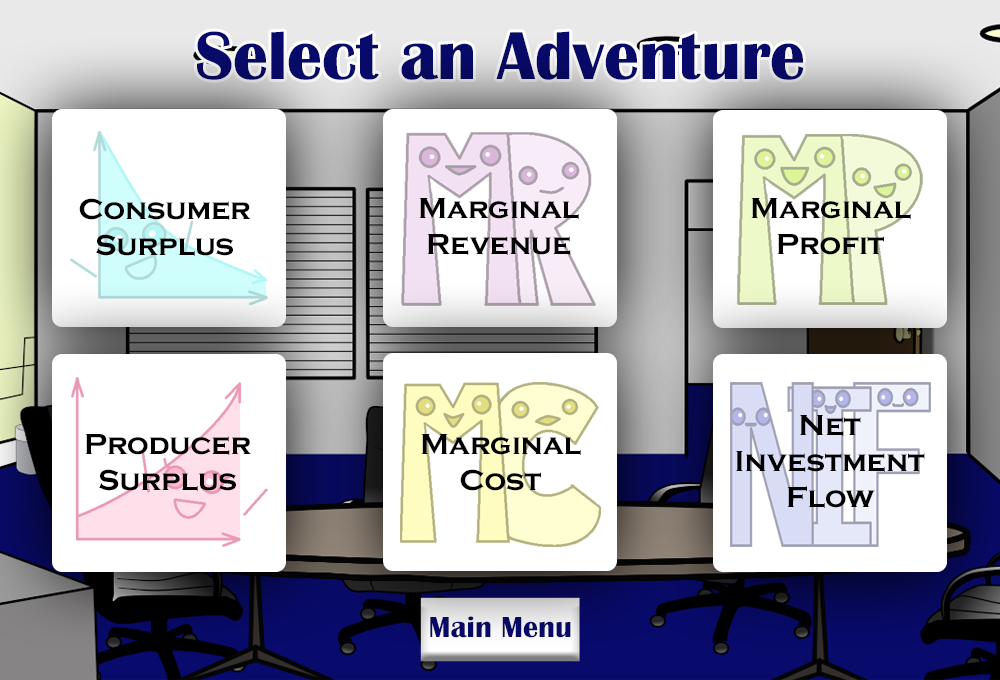
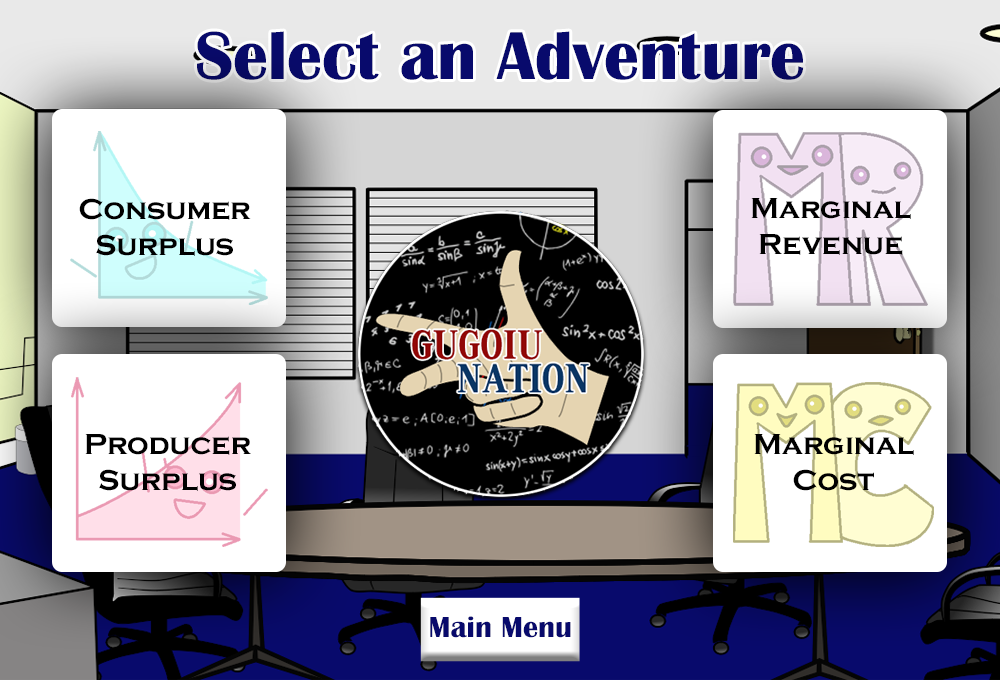
Fixed adventure select screen

Changed region(s): [[0.341, 0.0926, 0.682, 0.9265], [0.713, 0.5559, 0.961, 0.8029], [0.713, 0.1853, 0.93, 0.4632]]

diff --git a/AdventureSelect.java b/AdventureSelect.java
@@ -12,6 +12,7 @@ public class AdventureSelect extends JPanel
     
     public AdventureSelect ()
     {         
+            System.out.println(adventure);
         addMouseListener(new MouseAdapter() { 
             public void mousePressed(MouseEvent e) { 
                 int relativeX = e.getX();
@@ -27,24 +28,24 @@ public class AdventureSelect extends JPanel
                     adventure = "ProSurplus";
                     System.out.println (adventure);
                 }
-                else if (relativeX >= 383 && relativeX <= 617 && relativeY >= 109 && relativeY <= 327 && adventure.equals("")) 
+//                else if (relativeX >= 383 && relativeX <= 617 && relativeY >= 109 && relativeY <= 327 && adventure.equals("")) 
+//                {
+//                    adventure = "MargRevenue";
+//                    System.out.println (adventure);
+//                }
+//                else if (relativeX >= 383 && relativeX <= 617 && relativeY >= 353 && relativeY <= 572 && adventure.equals("")) 
+//                {
+//                    adventure = "MargCost";
+//                    System.out.println (adventure);
+//                }
+                else if (relativeX >= 713 && relativeX <= 974 && relativeY >= 109 && relativeY <= 327 && adventure.equals("")) //marg rev
                 {
-                    adventure = "MargRevenue";
+                    adventure = "MargRevenue";  
                     System.out.println (adventure);
                 }
-                else if (relativeX >= 383 && relativeX <= 617 && relativeY >= 353 && relativeY <= 572 && adventure.equals("")) 
+                else if (relativeX >= 713 && relativeX <= 974 && relativeY >= 353 && relativeY <= 572 && adventure.equals("")) //marg cost
                 {
-                    adventure = "MargCost";
-                    System.out.println (adventure);
-                }
-                else if (relativeX >= 713 && relativeX <= 974 && relativeY >= 109 && relativeY <= 327 && adventure.equals(""))
-                {
-                    adventure = "MargProfit";  
-                    System.out.println (adventure);
-                }
-                else if (relativeX >= 713 && relativeX <= 974 && relativeY >= 353 && relativeY <= 572 && adventure.equals(""))
-                {
-                    adventure = "NetInvestFlow";  
+                    adventure = "MargCost";  
                     System.out.println (adventure);
                 }
                 else if (relativeX >= 421 && relativeX <= 579 && relativeY >= 598 && relativeY <= 662 && adventure.equals("")) //Main menu
@@ -74,16 +75,12 @@ public class AdventureSelect extends JPanel
         Image b = Toolkit.getDefaultToolkit ().getImage ("Backgrounds/Adventure Select ProSurplus.png");
 //    Image c = Toolkit.getDefaultToolkit ().getImage ("Backgrounds/Adventure Select MargRevenue.png");
 //    Image d = Toolkit.getDefaultToolkit ().getImage ("Backgrounds/Adventure Select MargCost.png");
-//    Image e = Toolkit.getDefaultToolkit ().getImage ("Backgrounds/Adventure Select MargProfit.png");
-//    Image f = Toolkit.getDefaultToolkit ().getImage ("Backgrounds/Adventure Select NetInvestFlow.png");
         Image main = Toolkit.getDefaultToolkit ().getImage ("Backgrounds/Adventure Select.png");
         
         tracker.addImage (a, 0);        
       tracker.addImage (b, 1);      
 //    tracker.addImage (c, 2);   
 //    tracker.addImage (d, 3);  
-//    tracker.addImage (e, 4);   
-//    tracker.addImage (f, 5);  
         tracker.addImage (main, 6);   
         
         try
@@ -101,6 +98,7 @@ public class AdventureSelect extends JPanel
         if (adventure.equals(""))
         {
             graphics.drawImage (main, 0, 0, null); 
+            System.out.println ("GOES HERE");
         }
         else if (adventure.equals("ConSurplus"))
         {
@@ -117,16 +115,7 @@ public class AdventureSelect extends JPanel
 //    else if (adventure.equals("MargCost"))
 //    {
 //      graphics.drawImage (d, 0, 0, null); 
-//    }
-//    else if (adventure.equals("MargProfit"))
-//    {
-//      graphics.drawImage (e, 0, 0, null); 
-//    }
-//    else if (adventure.equals("NetInvestFlow"))
-//    {
-//      graphics.drawImage (f, 0, 0, null); 
-//    }
-        
+//    }        
         repaint();
     }  
     
